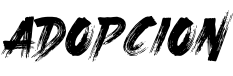
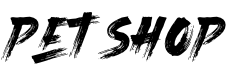
testing3

diff --git a/index.html b/index.html
@@ -35,7 +35,7 @@
 
     <!-- Aca empieza la seccion principal--> 
         <div class="principal fadeIn">
-            <h1>Estas son mascotas increíbles, nose que haces viendo que no los adoptas! </h1>
+            <h1>Estas son mascotas increíbles, nose que haces viendo que no los compas! </h1>
         </div>
    <!-- Aca termina la seccion principal--> 
 
@@ -46,7 +46,7 @@
                         <div class="img-contenido">
                                 <img src="imagenes/cat.png"  alt="gatito en la caja" class="responsive">
                         </div>
-                         <h1>ADOPCIÓN 1</h1>
+                         <h1>MASCOTA 1</h1>
                          <p>Esta es una breve descripción pero no por eso menos impotante aca deberia escribir un poco mas para que se agrande un poco</p>
                          <a href="venta.html">
                              <button  class="boton">Lo Quiero</button>
@@ -58,7 +58,7 @@
                             <div class="img-contenido">
                                     <img src="imagenes/dog.png"  alt="perrito en la caja" class="responsive">
                             </div> 
-                         <h1>ADOPCIÓN 2</h1>
+                         <h1>MASCOTA 2</h1>
                          <p>Esta es una breve descripción pero no por eso menos impotante aca deberia escribir un poco mas para que se agrande un poco</p>
                          <a href="venta2.html">
                             <button href="#" class="boton">Lo Quiero</button>

diff --git a/productos.html b/productos.html
@@ -42,14 +42,14 @@
                     <img src="imagenes/tucan.png" alt="Imagen de un Tucan"> 
             </div>
             <div class="col-8 fadeInRigth">
-                    <h2>Producto 1</h2>
+                    <h2>Mascota 1</h2>
                     <p>Los tucanes son aves de plumas y pico de colores muy llamativos. Llegan a medir hasta 65 centímetros y pesan de 130 hasta 680 g. Su pico es largo con una longitud aproximada de 20 cm y alcanzando su talla definitiva después de varios meses.</p>
              </div>
         </div>
         <div class="row row-reverse">
 
                 <div class="col-8 fadeInLeft"> 
-                    <h2>Producto 2</h2>
+                    <h2>Mascota 2</h2>
                     <p>El oso panda gigante es un animal grande, parecido a un oso, con pelaje blanco largo, denso y de aspecto lanoso; las patas, los hombros, las orejas y la zona de los ojos son negras. La cola es ancha y corta .</p>
                 </div>
                 <div class="col-4  fadeIn final"> 
@@ -62,7 +62,7 @@
                 </div>
 
                 <div class="col-8 fadeInRigth"> 
-                    <h2>Producto 3</h2>
+                    <h2>Mascota 3</h2>
                     <p>El oso más pequeño, el Sun Bear de Asia, pesa apenas 27-65 kilos y mide 120-150 metros de largo. Sus orejas, ojos y cola son pequeñas. Están cubiertos por pelaje largo abundante y áspero que puede ser de color marrón, negro, blanco y manchado.</p>
                 </div>
 

diff --git a/venta2.html b/venta2.html
@@ -41,7 +41,7 @@
                     <div class="modulo-imagen">
                         <img src="imagenes/dog.png" alt="Imagen de perrito" class="responsive2">
                     </div>
-                    <h3>ADOPCION 2</h3>
+                    <h3>MASCOTA 2</h3>
                     <p>Esta es una breve descripción pero no por eso menos impotante aca deberia escribir un poco mas para que se agrande un poco</p>
                 </div>
               </div>

diff --git a/venta.html b/venta.html
@@ -42,7 +42,7 @@
                     <div class="modulo-imagen">
                         <img src="imagenes/cat.png" alt="Imagen de gatito" class="responsive2">
                     </div>
-                    <h3>ADOPCION 1</h3>
+                    <h3>MASCOTA 1</h3>
                     <p>Esta es una breve descripción pero no por eso menos impotante aca deberia escribir un poco mas para que se agrande un poco</p>
                 </div>
               </div>
